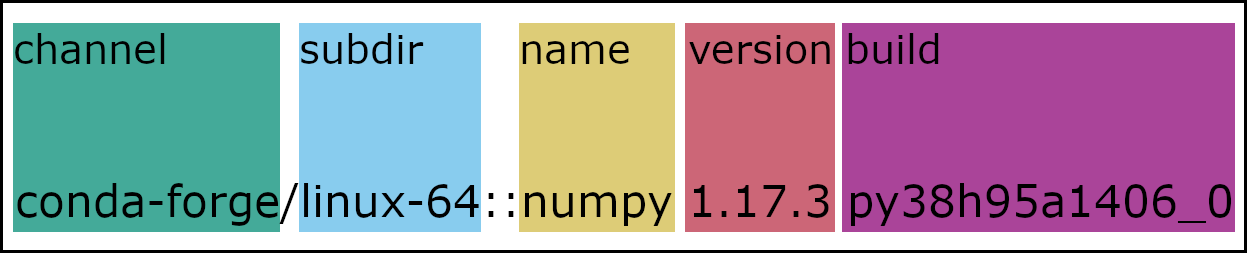
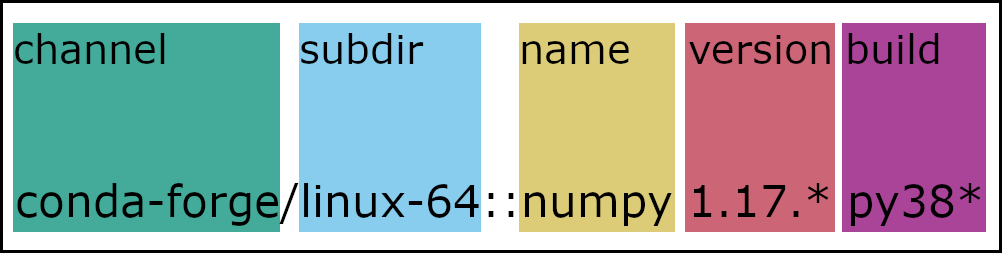
Filled out package install section and updated image

diff --git a/docs/source/user-guide/concepts/pkg-search-install-spec.rst b/docs/source/user-guide/concepts/pkg-search-install-spec.rst
@@ -38,13 +38,13 @@ example image. The search below will return the same list of packages as the sta
 
 .. code-block:: none
    
-   conda search "numpy[channel=conda-forge, subdir=linux-64, version=1.17.3, build=py38h95a1406_0]"
+   $ conda search "numpy[channel=conda-forge, subdir=linux-64, version=1.17.*, build=py38*]"
 
 Key-value pair notation can be used at the same time as standard notation.
 
 .. code-block:: none
    
-   conda search "conda-forge::numpy=1.17.3[subdir=linux-64, build=py38*]"
+   $ conda search "conda-forge::numpy=1.17.3[subdir=linux-64, build=py38*]"
 
 .. warning::
 
@@ -53,5 +53,30 @@ Key-value pair notation can be used at the same time as standard notation.
 Package installation
 ====================
 
-When you're installing packages, conda recommends being as concrete as possible. The use of ``*`` wildcards and version ranges during a search will most likely return a list of many packages.
+When you're installing packages, conda recommends being as concrete as possible. The use of ``*`` wildcards and version ranges during a search will most likely install many packages of different types and versions into your environment.
+
+Example
+-------
+
+Let's take the search from the :ref:`Package search` section.
+
+.. code-block:: none
+   
+   $ conda search "conda-forge/linux-64::numpy 1.17.* py38*"
+
+This returns the following:
+
+.. code-block:: none
+   
+   Loading channels: done
+   # Name                       Version           Build  Channel
+   numpy                         1.17.3  py38h95a1406_0  conda-forge
+   numpy                         1.17.5  py38h18fd61f_1  conda-forge
+   numpy                         1.17.5  py38h95a1406_0  conda-forge
+
+You can then choose a specific version and build, if necessary, and edit your ``conda install`` command accordingly.
+
+.. code-block:: none
+   
+   $ conda install "conda-forge/linux-64::numpy 1.17.5 py38h95a1406_0"
 
